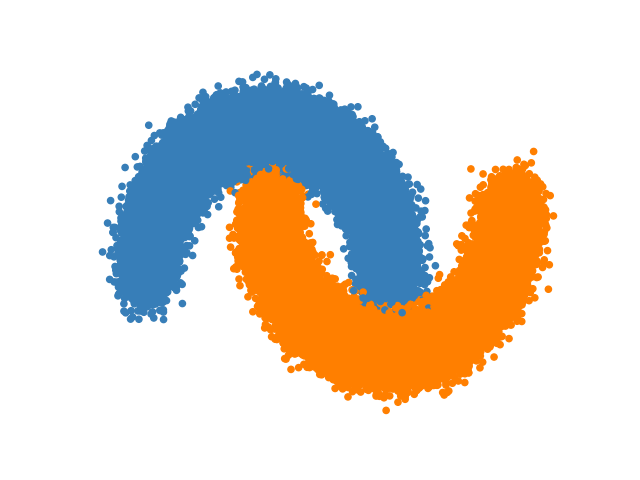
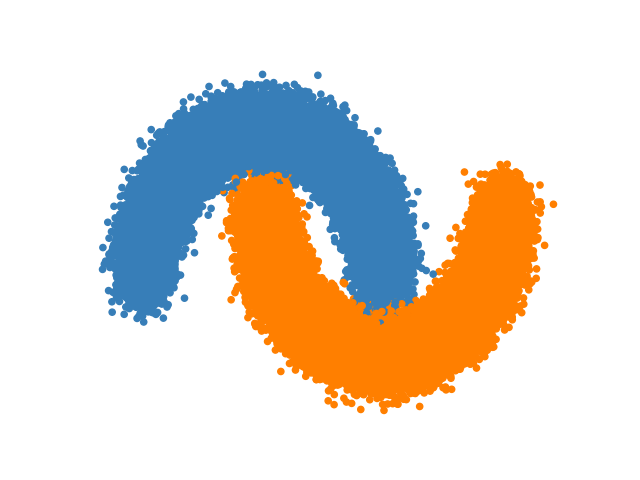
cleaned up some code that was not needed and adjusted cropping for checkerboard density source.

Changed region(s): [[0.1562, 0.3125, 0.875, 0.875], [0.25, 0.125, 0.625, 0.3438], [0.1875, 0.25, 0.25, 0.4062]]

diff --git a/sampling/utils/density.py b/sampling/utils/density.py
@@ -3,6 +3,8 @@ from typing import Optional
 import jax.numpy
 import numpy
 
+import matplotlib.pyplot as plt
+
 
 def gaussian_mixture_energy(coord, means, sigmas, weights):
     """
@@ -51,7 +53,7 @@ def gaussian_mixture_sampler(N, means, sigmas, weights, key):
     return std_normal_samples * sigmas[modes].reshape(std_normal_samples.shape[0], 1) + means[modes]
 
 
-def sample_from_image_density(N, density, key):
+def sample_from_image_density(N, density, key, use_softmax=False):
     """
         adapted from https://github.com/noegroup/stochastic_normalizing_flows/blob/main/snf_code/snf_code/image.py#L138
 
@@ -63,7 +65,12 @@ def sample_from_image_density(N, density, key):
         :return: samples shape=(N,2)
     """
     # normalize
-    density = density / density.sum()
+    import ipdb; ipdb.set_trace()
+    if not use_softmax:
+        density = density / density.sum()
+    else:
+        density = jax.nn.softmax(density)
+    import ipdb; ipdb.set_trace()
 
     flat_density = density.flatten()
     subkey, key = jax.random.split(key)
@@ -182,7 +189,10 @@ def prepare_image(rgb, crop=None, embed=None, white_cutoff=225, gauss_sigma=3, b
 
     # convolve with Gaussian
     from scipy.ndimage import gaussian_filter
-    img2 = gaussian_filter(img, sigma=gauss_sigma)
+    if gauss_sigma:
+        img2 = gaussian_filter(img, sigma=gauss_sigma)
+    else:
+        img2 = img
 
     # add background
     background1 = gaussian_filter(img, sigma=10)

diff --git a/sampling/data/toy_data.py b/sampling/data/toy_data.py
@@ -28,10 +28,7 @@ def convert_image_to_array(fig):
   """Routine to convert figure object to an array."""
   # https://stackoverflow.com/questions/7821518/matplotlib-save-plot-to-numpy-array
   data = np.frombuffer(fig.canvas.tostring_rgb(), dtype=np.uint8)
-  data = data.reshape(fig.canvas.get_width_height()[::-1] + (3,))
-  # 1 minus to invert --> rings are high density regions???
-  # data = skimage.color.rgb2gray(data) # convert to grayscale
-  return jax.numpy.asarray(data)
+  return data.reshape(fig.canvas.get_width_height()[::-1] + (3,))
 
 # TODO(loganesian): num_samples should eventually be removed.
 def generate_density(data, num_samples=100000, nx=10, ny=12):
@@ -129,11 +126,11 @@ def generate_density(data, num_samples=100000, nx=10, ny=12):
                     jax.numpy.array([nx/1.4, ny/5]),
                     jax.numpy.array([[1., 0.7], [0.7, 1.]])
                   )
-    # probs /= jax.numpy.sum(probs) # our utils normalize by default?
+
     fig = plot_target(probs)
     # Have to save image in order to convert to an array afterwards.
     fig.savefig(os.path.join(dirout, 'mixture_of_2gaussians.png')) #, dpi=100)
     return convert_image_to_array(fig)
 
   # Default
-  return generate_density('mixture_of_2gaussians', num_samples, nx, ny)
+  return generate_density('labrador', num_samples, nx, ny)
